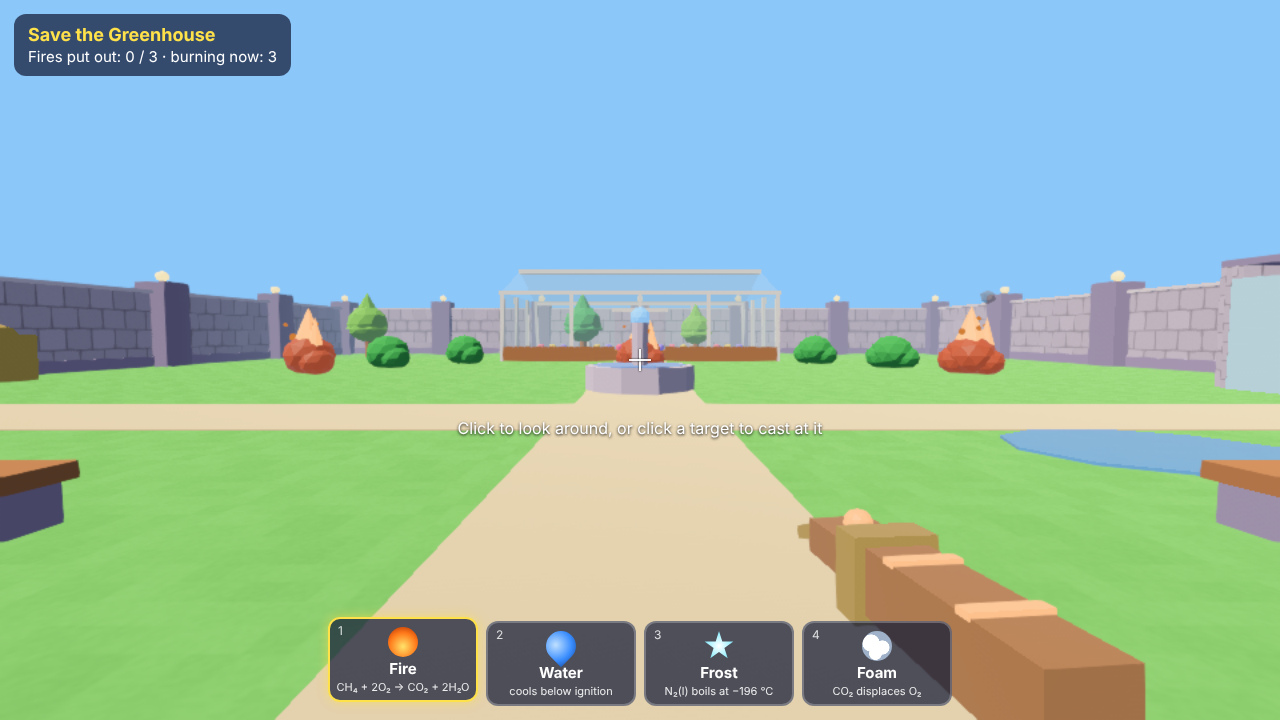
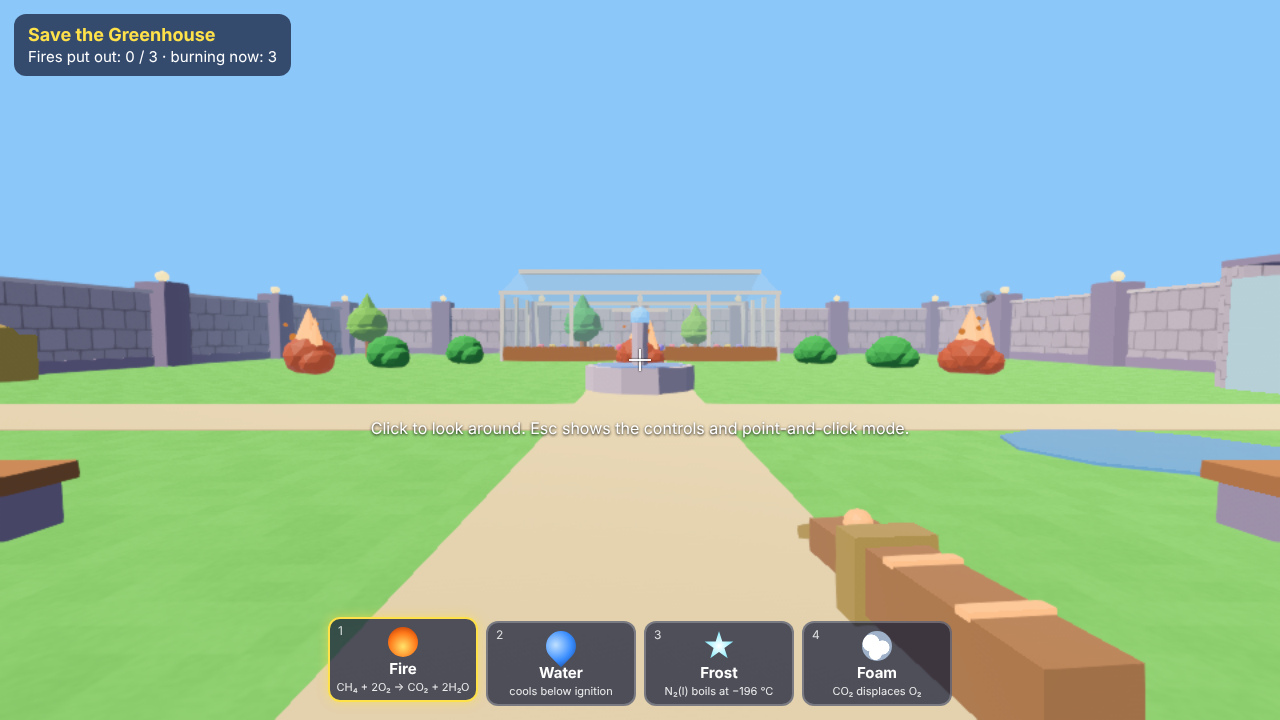
I-006: atomic session.json, robust selftest, retest on PR #13 tip
The daemon writes session.json and start-error.json via rename, so start
never parses a half-written file (seen once in a parallel start). The
selftest restarts with R before the bush cast (on a ~1 fps box the fire
could win first) and faces each burning bush until one is under the
crosshair. Rebased onto 5a8f5fe; selftest 31/31 on that build.

Loop-Session: wave-3
Claude-Session: https://claude.ai/code/session_01LpBky4ce2RoSR6fXKw3uvv

Changed region(s): [[0.2812, 0.5806, 0.7188, 0.6111]]

diff --git a/docs/loop/items/I-006/lanes/main/round-1.md b/docs/loop/items/I-006/lanes/main/round-1.md
@@ -1,8 +1,9 @@
 # I-006 lane main, round 1 (builder)
 
-**Branch:** `loop/I-006`, from `origin/claude/fps-prototype` 877131f (PR #13, not merged). Merges after I-001.
+**Branch:** `loop/I-006`, built first on `origin/claude/fps-prototype` 877131f (the spec's base), then **rebased onto 5a8f5fe** ("Fix pointer lock: a left click always locks; add drag-to-look fallback"), which landed on PR #13 during the round. PR #13 is not merged. Merges after I-001.
 **Lane paths touched:** `tests/e2e/panel/**`, `docs/loop/panel.md`, `docs/loop/items/I-006/**`. No client, `package.json`, `checks.md` or `config.md` change.
-**Build tested:** `crates/bevy-client/build-web.sh` at 877131f (`CARGO_TARGET_DIR=/home/claude/bevy-target`, wasm-bindgen 0.2.129 from `/home/claude/bevy-target/tools/bin`), release in 2m51s, wasm 17,655,634 bytes raw, 5,032,661 gzip. Build output was not committed.
+**Builds tested:** `crates/bevy-client/build-web.sh` (`CARGO_TARGET_DIR=/home/claude/bevy-target`, wasm-bindgen 0.2.129 from `/home/claude/bevy-target/tools/bin`). At 877131f: release in 2m51s, wasm 17,655,634 bytes raw, 5,032,661 gzip. At 5a8f5fe: wasm 5,034,647 gzip. Build output was not committed.
+**Stale check (spec):** 5a8f5fe changes only `hud.js`, `index.html` and `golden.mjs`. No state field, HUD id or console line the harness uses changed, so `hud.mjs` needed no change. The selftest was rerun on the 5a8f5fe build (31/31, below). The first run on 877131f was 30/30.
 **Environment while measuring:** 4 cores, 15 GB memory, load average 10 to 12 (other wave agents running Chromium at the same time). The game ran at about 0.7 to 3 fps (golden's STATS: `fps_p50=0.6` to `1.3`). No fps or perf claim is made here.
 
 ## What was built
@@ -43,15 +44,15 @@ $ node --test tests/e2e/panel/
 | 5 | Panel clock | PASS | 3 + 1.5 + 2 + 0.1 + 3 = **9.6**, identical on replay |
 | 6 | observe | PASS | PNG 366,104 bytes with PNG signature; all view keys; no `objs`/`aimObj`/`hover`/`tick`/`ghTemp` without `--truth`; `truth.objs` length 14 with it |
 | 7 | move | PASS | first `key w 1500` moved **1.00 m**; `time_to_move_s = 9.1` = that act's panel time; a session with only `wait` has `time_to_move_s: null` |
-| 8 | look and cast | PASS | click on sky: `pointer_locked=true`; `move 200 0`: yaw 0 → 334.8 (25.2°) **via real** (no synthetic fallback needed in new headless); sky cast at pitch 47.6: casts 0→1, impacts 0→1, `time_to_cast_s` stays null; debug face to burning bush 0, `Digit2`, click centre: casts 1→2, bush burning → false (wet 0.99, caption "Fire out! Water cooled it below its ignition temperature."), `time_to_cast_s = 47.8` = the casting click's panel time |
+| 8 | look and cast | PASS | click on sky: `pointer_locked=true`; `move 200 0`: yaw 0 → 334.8 (25.2°) **via real** (no synthetic fallback needed in new headless); sky cast at pitch 47.6: casts 0→1, impacts 0→1, `time_to_cast_s` stays null; `key r` restart (real input), debug face to burning bush 6, `Digit2`, click centre: casts 0→1, bush burning → false (wet 1, caption "Fire out! Water cooled it below its ignition temperature."), `time_to_cast_s = 36.1` = the casting click's panel time (877131f run: bush 0, 47.8) |
 | 9 | Real input only | PASS | `act cmd reset`, `act face 3`, `act teleport 1 2` exit 1 (`unknown action ... real input only`); `debug face 3` refused without `PANEL_SELFTEST`; next observe ok (turn 2); the game-command hook appears only at `daemon.mjs:276` (debug face) and `daemon.mjs:384` (reset in start) |
 | 10 | Throttle | PASS | qa: `session.json` `throttle:4`, `cdp_throttle_rate:4`, daemon.log `CDP Emulation.setCPUThrottlingRate rate=4`, result `throttle:4`; 9yo: `throttle:1`, no CDP call |
 | 11 | Parallel and cleanup | PASS | qa and 9yo sessions started and observed concurrently, each turn 1 with its own screenshot; after stop both pids dead and ports refuse connections; second stop exits 0 |
 | 12 | Errors surface | PASS | injected `console.error("x")` → `console_errors_new: 1` on the next act, `measured.console_errors: 1` |
 | 13 | One real haiku persona | **BLOCKED** | This builder runs as a workflow subagent with no tool to spawn another agent, so no fresh-context haiku run was possible. Not marked passed; no scripted substitute counted. The loop should run it as the first step after merge (one haiku agent, 6yo block from panel.md, run dir under `.loop-artifacts/I-006/`, copy `result.json` and five shots to `evidence/`). |
-| 14 | Existing smoke unaffected | **FAIL (pre-existing, environment)** / scope PASS | `git diff --stat origin/claude/fps-prototype` shows only `tests/e2e/panel/`, `docs/loop/panel.md`, `docs/loop/items/I-006/`. `golden.mjs` is untouched, but `QUERY=?low node tests/e2e/golden.mjs` exits 2 on this box: after the pointer-lock click the headless-shell renderer was OOM-killed (`Target crashed`; dmesg `Killed process ... (chrome-headless) anon-rss:6375768kB`). Control: an uncommitted temp copy of golden.mjs whose only change was `chromium.launch({ channel: 'chromium' })` passed **28/28** (exit 0) on the same build and box minutes later (pointer lock `locked=true`, mouse look yaw 0 → 334.8, WASD 2.16 m, win banner, no console errors). So the failure is the headless shell in this cloud, not this branch. |
+| 14 | Existing smoke unaffected | **FAIL (pre-existing, environment)** / scope PASS | `git diff --stat origin/claude/fps-prototype` shows only `tests/e2e/panel/`, `docs/loop/panel.md`, `docs/loop/items/I-006/`. `golden.mjs` is untouched, but `QUERY=?low node tests/e2e/golden.mjs` exits 2 on this box: after the pointer-lock click the headless-shell renderer was OOM-killed (`Target crashed`; dmesg `Killed process ... (chrome-headless) anon-rss:6375768kB`). Control: an uncommitted temp copy of golden.mjs whose only change was `chromium.launch({ channel: 'chromium' })` passed **28/28** (exit 0) on the same build and box minutes later (pointer lock `locked=true`, mouse look yaw 0 → 334.8, WASD 2.16 m, win banner, no console errors). So the failure is the headless shell in this cloud, not this branch. After the rebase onto 5a8f5fe, unmodified golden.mjs crashed the same way (`PASS boots`, `PASS three fires at start`, then `page.evaluate: Target crashed`, exit 2). |
 
-Selftest summary line: `30/30 passed`. Unit tests: `# tests 14 # pass 14 # fail 0`. Full selftest log and two results in `evidence/selftest/`.
+Selftest summary lines: `30/30 passed` on 877131f; `31/31 passed` on 5a8f5fe (one check added: R restarts the courtyard). Two intermediate 5a8f5fe runs were 28/30 and 16/19; their causes are findings 7 and 8, both fixed before the 31/31 run. Unit tests: `# tests 14 # pass 14 # fail 0`. Full selftest log and two results in `evidence/selftest/`.
 
 Wall time per daemon command during the selftest (contended box): act mean 8.1 s (max 18.6 s), observe mean 3.3 s (max 6.8 s), start about 6 to 10 s.
 
@@ -62,7 +63,9 @@ Wall time per daemon command during the selftest (contended box): act mean 8.1 s
 3. **The game runs slower than real time in the cloud.** At about 1 fps Bevy's per-frame clamp (`delta.min(0.05)` for projectiles, 0.25 s virtual max delta for the fixed step) makes a 1500 ms `key w` walk about 1 m and a water projectile take several wall seconds to land. Panel time counts input duration, so cloud `time_to_move_s`/`time_to_cast_s` are pessimistic. On the 10 s / 30 s B4 thresholds this can matter: in the selftest, a robot that knew exactly what to do needed 9.1 panel s to move 0.5 m (with a 3 s read before). Recorded for the scoring step; the harness does not correct for it.
 4. **Every cast writes a caption** as it leaves the hand (`game.say(spell.cast_caption())`), so a caption change alone does not show that a cast landed. `measure.landed` subtracts one caption per cast and ignores lone spontaneous captions ("Heat from a neighbour…", "Oh no!"); unit tests pin the sky-cast case.
 5. **Clicks under pointer lock are sent in place.** A move before the press sends a stray `movementX`, which turned the view by 161° in an early run on the headless shell. Unlocked clicks move first and wait 2 frames (wall time) so the game's hover sees the cursor before the press; otherwise a click on the sky could be read as a tap on whatever was under the old cursor (seen once in an early run).
-6. The view exposes the cursor shape (`pointer` over targets when unlocked) and whether the crosshair is lit, because a player sees both; no game-state field is exposed.
+7. **Half-written `session.json`.** In one parallel start, `start` read `session.json` while the daemon was still writing it (`Unexpected end of JSON input`), though the daemon was healthy. The daemon now writes to a temp file and renames it (same for `start-error.json`).
+8. **The fire can win during a slow scripted run.** The game runs during each act, so on a ~1 fps box the selftest's sky-cast wait loop let the fires reach the greenhouse (`outcome: lost`). After that, `face` and casts did nothing useful. The selftest now presses R (real input) and checks for a fresh courtyard before the bush cast. A persona can lose the same way, which is real play and is recorded as such.
+9. The view exposes the cursor shape (`pointer` over targets when unlocked) and whether the crosshair is lit, because a player sees both; no game-state field is exposed.
 
 ## Needs (outside this lane)
 - Smoke/perf harnesses: switch to new headless (`channel: 'chromium'`), finding 1.
